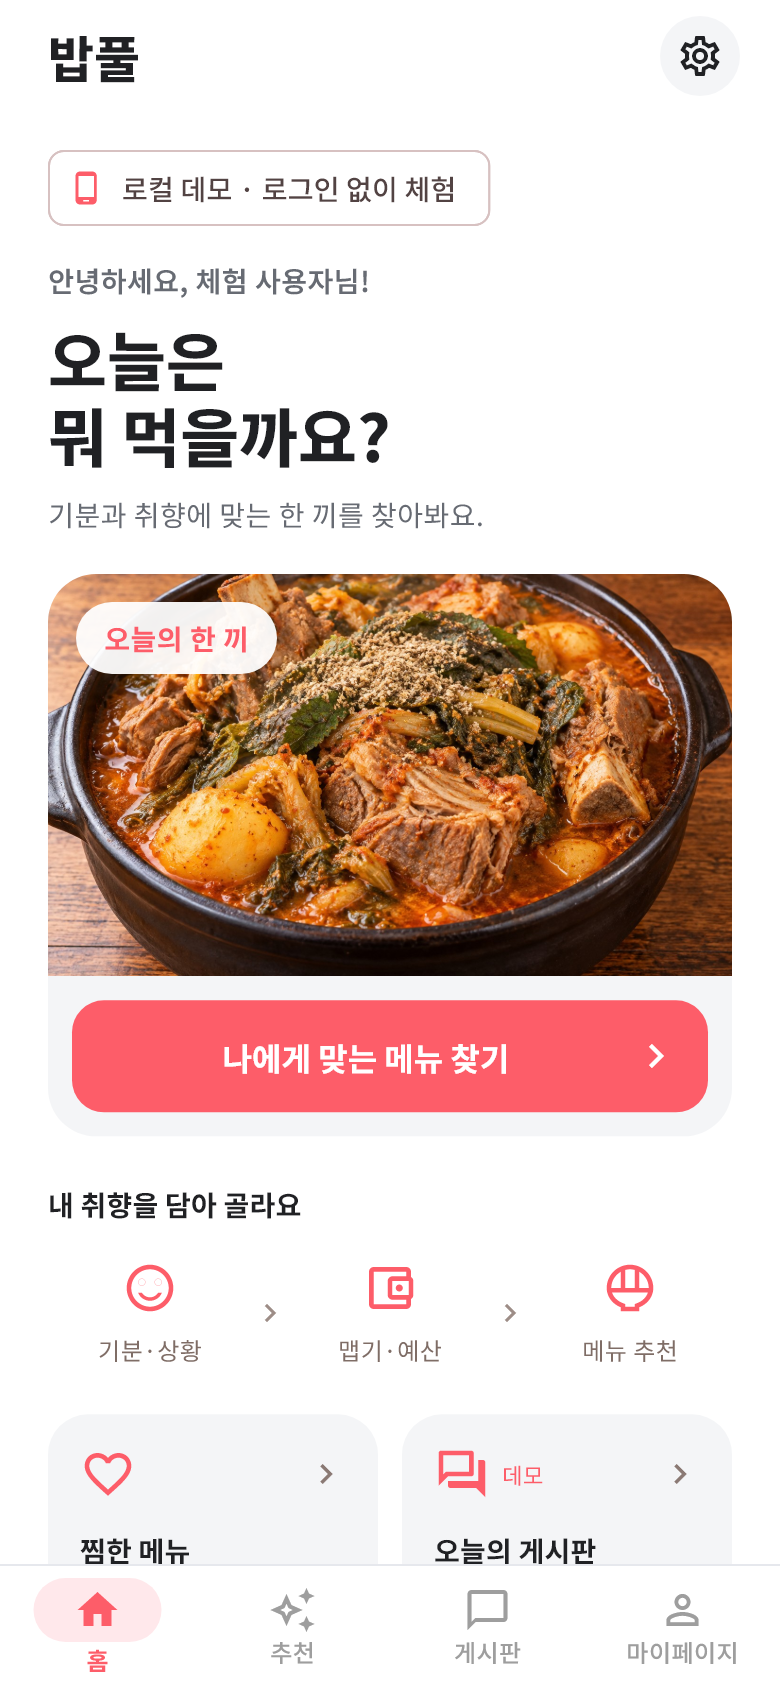
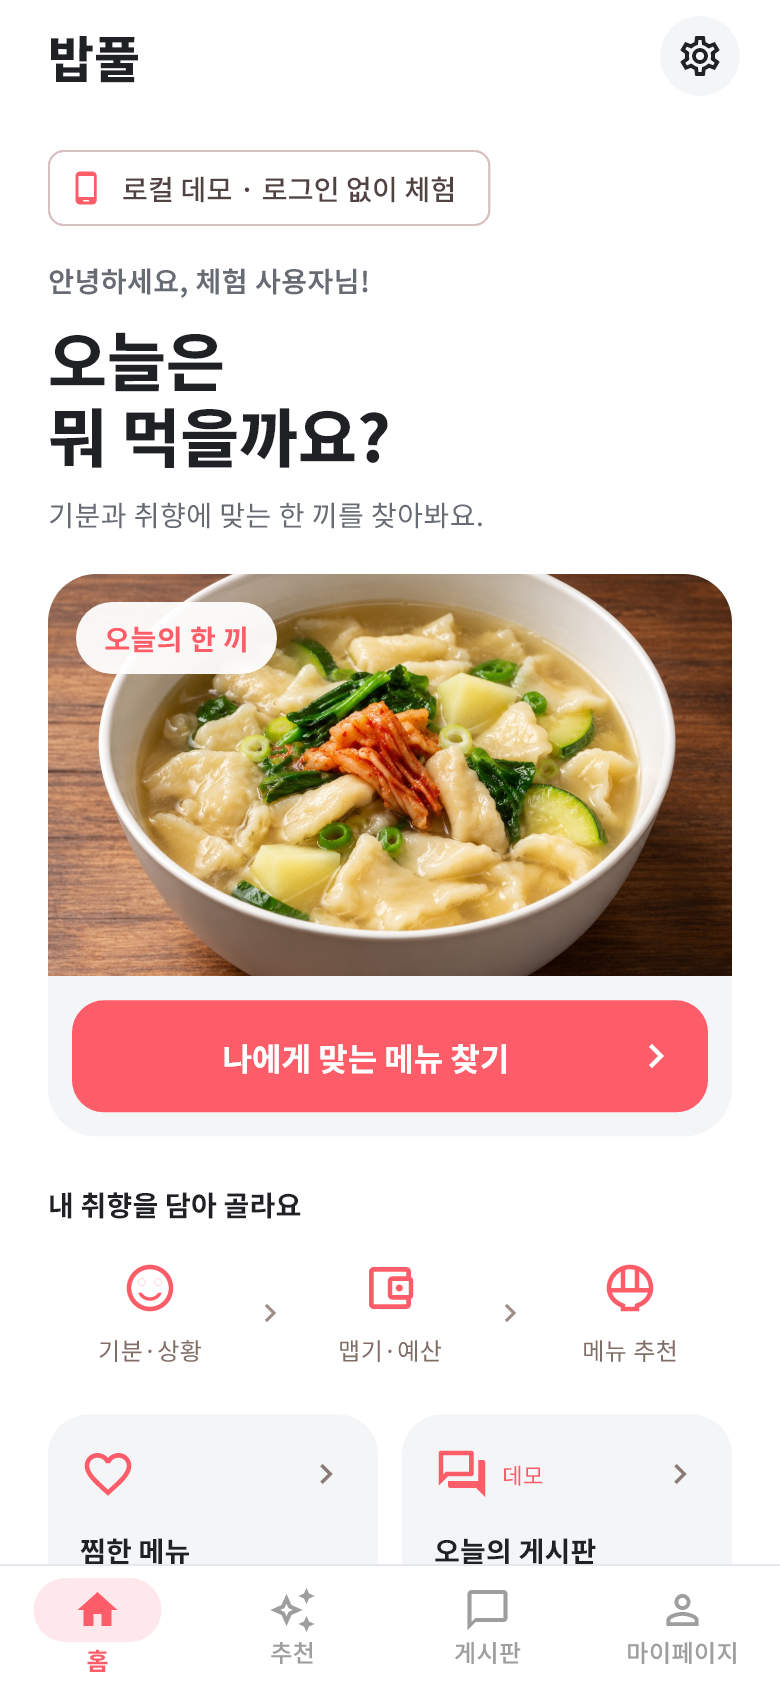
Present screens in spaced Android frames and remove recommendation reason

Changed region(s): [[0.0615, 0.3389, 0.9538, 0.5853]]

diff --git a/test/support/phone_preview.dart b/test/support/phone_preview.dart
@@ -1,0 +1,167 @@
+import 'dart:io';
+import 'dart:ui' as ui;
+import 'package:flutter/material.dart';
+
+// Presentation frame only: the captured app pixels are drawn without changes.
+const _phoneSize = Size(438, 960);
+
+void _text(Canvas canvas, String text, Offset offset, double size) {
+  final painter = TextPainter(
+    text: TextSpan(
+      text: text,
+      style: TextStyle(
+        fontFamily: 'NotoSansKR',
+        fontSize: size,
+        fontWeight: FontWeight.w600,
+        color: const Color(0xFF202124),
+      ),
+    ),
+    textDirection: TextDirection.ltr,
+  )..layout();
+  painter.paint(canvas, offset);
+  painter.dispose();
+}
+
+void _phone(Canvas canvas, ui.Image screenshot) {
+  final paint = Paint()..isAntiAlias = true;
+  final shell = RRect.fromRectAndRadius(
+    const Rect.fromLTWH(16, 12, 406, 936),
+    const Radius.circular(44),
+  );
+  canvas.drawShadow(Path()..addRRect(shell), Colors.black26, 8, true);
+  canvas.drawRRect(shell, paint..color = const Color(0xFF202124));
+  canvas.drawRRect(
+    RRect.fromRectAndRadius(
+      const Rect.fromLTWH(422, 156, 3, 62),
+      const Radius.circular(2),
+    ),
+    paint,
+  );
+  canvas.save();
+  canvas.clipRRect(
+    RRect.fromRectAndRadius(
+      const Rect.fromLTWH(24, 20, 390, 920),
+      const Radius.circular(36),
+    ),
+  );
+  canvas.drawColor(Colors.white, BlendMode.srcOver);
+  _text(canvas, '10:08', const Offset(42, 29), 12);
+  canvas.drawCircle(const Offset(219, 39), 4.5, paint);
+  for (var i = 0; i < 4; i++) {
+    canvas.drawRRect(
+      RRect.fromRectAndRadius(
+        Rect.fromLTWH(350 + i * 4, 43 - i * 2, 2.5, 4 + i * 2),
+        const Radius.circular(0.7),
+      ),
+      paint,
+    );
+  }
+  canvas.drawArc(
+    const Rect.fromLTWH(372, 33, 14, 12),
+    3.8,
+    1.8,
+    false,
+    Paint()
+      ..color = const Color(0xFF202124)
+      ..style = PaintingStyle.stroke
+      ..strokeWidth = 1.5,
+  );
+  canvas.drawCircle(const Offset(379, 43), 1.5, paint);
+  canvas.drawRRect(
+    RRect.fromRectAndRadius(
+      const Rect.fromLTWH(392, 34, 7, 11),
+      const Radius.circular(1.2),
+    ),
+    paint,
+  );
+  canvas.drawRect(const Rect.fromLTWH(394, 32, 3, 2), paint);
+  canvas.drawImageRect(
+    screenshot,
+    Rect.fromLTWH(
+      0,
+      0,
+      screenshot.width.toDouble(),
+      screenshot.height.toDouble(),
+    ),
+    const Rect.fromLTWH(24, 60, 390, 844),
+    Paint()..filterQuality = FilterQuality.high,
+  );
+  canvas.drawRRect(
+    RRect.fromRectAndRadius(
+      const Rect.fromLTWH(188, 924, 62, 4),
+      const Radius.circular(2),
+    ),
+    paint..color = const Color(0xFF93969B),
+  );
+  canvas.restore();
+}
+
+Future<void> _save(ui.Picture picture, Size size, String path) async {
+  final image = await picture.toImage(size.width.ceil(), size.height.ceil());
+  final bytes = await image.toByteData(format: ui.ImageByteFormat.png);
+  await File(path).writeAsBytes(bytes!.buffer.asUint8List());
+  image.dispose();
+  picture.dispose();
+}
+
+Future<void> writePhonePreview(ui.Image screenshot, String path) async {
+  final recorder = ui.PictureRecorder();
+  final canvas = Canvas(recorder)..scale(2);
+  _phone(canvas, screenshot);
+  await _save(recorder.endRecording(), _phoneSize * 2, path);
+}
+
+Future<void> writePhoneOverview(
+  String directory,
+  String name,
+  List<(String, String)> screens,
+) async {
+  const gap = 90.0;
+  const padding = 40.0;
+  const top = 74.0;
+  final size = Size(
+    padding * 2 +
+        screens.length * _phoneSize.width +
+        (screens.length - 1) * gap,
+    top + _phoneSize.height + 28,
+  );
+  final recorder = ui.PictureRecorder();
+  final canvas = Canvas(recorder);
+  canvas.drawColor(const Color(0xFFF6F7F9), BlendMode.src);
+  final images = <ui.Image>[];
+  for (var index = 0; index < screens.length; index++) {
+    final (file, title) = screens[index];
+    final codec = await ui.instantiateImageCodec(
+      await File('$directory/$file.png').readAsBytes(),
+    );
+    final image = (await codec.getNextFrame()).image;
+    codec.dispose();
+    images.add(image);
+    final left = padding + index * (_phoneSize.width + gap);
+    final label = TextPainter(
+      text: TextSpan(
+        text: title,
+        style: const TextStyle(
+          fontFamily: 'NotoSansKR',
+          color: Color(0xFF202124),
+          fontSize: 24,
+          fontWeight: FontWeight.w700,
+        ),
+      ),
+      textDirection: TextDirection.ltr,
+    )..layout();
+    label.paint(
+      canvas,
+      Offset(left + (_phoneSize.width - label.width) / 2, 26),
+    );
+    label.dispose();
+    canvas.save();
+    canvas.translate(left, top);
+    _phone(canvas, image);
+    canvas.restore();
+  }
+  await _save(recorder.endRecording(), size, '$directory/$name.png');
+  for (final image in images) {
+    image.dispose();
+  }
+}

diff --git a/lib/screens/recommend_result_page.dart b/lib/screens/recommend_result_page.dart
@@ -7,7 +7,6 @@ import '../services/local_recommend_service.dart';
 import '../services/user_menu_preference_service.dart';
 import '../core/app_config.dart';
 import '../widgets/menu_summary_card.dart';
-import '../widgets/recommendation_reason_card.dart';
 import '../widgets/recommendation/result_decision_buttons.dart';
 
 class RecommendResultPage extends StatefulWidget {
@@ -18,7 +17,6 @@ class RecommendResultPage extends StatefulWidget {
 
 class _RecommendResultPageState extends State<RecommendResultPage> {
   MenuModel? _menu;
-  RankedMenu? _ranked;
   RecommendationRequest? _request;
   RecommendationExposure? _exposure;
   final Set<String> _shown = {};
@@ -37,7 +35,6 @@ class _RecommendResultPageState extends State<RecommendResultPage> {
     final args = ModalRoute.of(context)?.settings.arguments;
     if (args is! Map<String, dynamic> || args['menu'] is! MenuModel) return;
     _menu = args['menu'] as MenuModel;
-    _ranked = args['ranked'] as RankedMenu?;
     _random = args['isRandomMode'] == true;
     _exposure = _random ? null : args['exposure'] as RecommendationExposure?;
     if (!_random) {
@@ -102,7 +99,6 @@ class _RecommendResultPageState extends State<RecommendResultPage> {
       }
     }
     MenuModel next;
-    RankedMenu? ranked;
     RecommendationExposure? exposure;
     if (_random) {
       next = await LocalRecommendService.recommendRandom(
@@ -122,9 +118,8 @@ class _RecommendResultPageState extends State<RecommendResultPage> {
         candidates,
         _request!,
       );
-      ranked = choice.result;
       exposure = choice.exposure;
-      next = ranked.menu;
+      next = choice.result.menu;
     }
     final favorite = await UserMenuPreferenceService.isFavoriteMenu(
       next.menuId,
@@ -138,7 +133,6 @@ class _RecommendResultPageState extends State<RecommendResultPage> {
     if (!mounted) return;
     setState(() {
       _menu = next;
-      _ranked = ranked;
       _exposure = exposure;
       _favorite = favorite;
       _selected = false;
@@ -198,9 +192,7 @@ class _RecommendResultPageState extends State<RecommendResultPage> {
                 children: [
                   MenuSummaryCard(menu: menu),
                   const SizedBox(height: 4),
-                  if (_ranked != null)
-                    RecommendationReasonCard(result: _ranked!)
-                  else
+                  if (_random)
                     const Text('전체 메뉴에서 무작위로 골랐어요. 예산·맵기·취향 조건은 적용되지 않아요.'),
                   const SizedBox(height: 12),
                   ListTile(

diff --git a/test/visual_refresh_test.dart b/test/visual_refresh_test.dart
@@ -19,6 +19,7 @@ import 'package:bp2/services/visual_preferences.dart';
 import 'package:bp2/services/home_hero_image_service.dart';
 import 'package:bp2/widgets/menu_summary_card.dart';
 import 'package:bp2/widgets/recommendation/bobpool_cooker.dart';
+import 'support/phone_preview.dart';
 
 const captureDirectory = String.fromEnvironment('UI_CAPTURE_DIR');
 final boundaryKey = GlobalKey();
@@ -61,6 +62,7 @@ Future<void> capture(WidgetTester tester, String name) async {
     await File(
       '$captureDirectory/$name.png',
     ).writeAsBytes(bytes!.buffer.asUint8List());
+    await writePhonePreview(image, '$captureDirectory/$name-phone.png');
     image.dispose();
   });
 }
@@ -214,6 +216,26 @@ void main() {
     );
     await tester.pumpAndSettle();
     await capture(tester, 'board-current');
+    if (captureDirectory.isNotEmpty) {
+      await tester.runAsync(() async {
+        await writePhoneOverview(
+          captureDirectory,
+          'phone-home-recommendation',
+          [
+            ('home-current', '홈'),
+            ('recommendation-current', '맞춤 추천'),
+            ('random-current', '랜덤 추천'),
+          ],
+        );
+        if (await File('$captureDirectory/result-current.png').exists()) {
+          await writePhoneOverview(captureDirectory, 'phone-result-community', [
+            ('result-current', '추천 결과'),
+            ('board-current', '게시판'),
+            ('mypage-bobpool-profile', '마이페이지'),
+          ]);
+        }
+      });
+    }
     expect(find.text('오늘 점심은 김치찌개로 결정!'), findsOneWidget);
     expect(tester.takeException(), isNull);
   });

diff --git a/test/widget_test.dart b/test/widget_test.dart
@@ -25,7 +25,7 @@ void main() {
       expect(tester.takeException(), isNull);
     },
   );
-  testWidgets('recommend, explain, favorite, select once, recipe and rerank', (
+  testWidgets('recommend, favorite, select once, recipe and rerank', (
     tester,
   ) async {
     tester.view.physicalSize = const Size(1080, 2400);
@@ -45,7 +45,8 @@ void main() {
     await tester.tap(find.text('이 조건으로 추천받기'));
     await tester.pumpAndSettle();
     expect(find.text('나를 위한 추천'), findsOneWidget);
-    expect(find.text('이 메뉴를 추천한 이유'), findsOneWidget);
+    expect(find.text('이 메뉴를 추천한 이유'), findsNothing);
+    expect(find.byTooltip('추천 이유 더보기'), findsNothing);
     final first = tester
         .widget<MenuSummaryCard>(find.byType(MenuSummaryCard))
         .menu

diff --git a/README.md b/README.md
@@ -94,17 +94,16 @@
 
 기분·상황·맵기·예산을 한 화면에서 고를 수 있습니다. 추천 전 ‘애니메이션 건너뛰기’를 체크하면 음식 결과를 바로 보여주고, 체크하지 않으면 밥풀이가 자기 밥솥 버튼을 누른 뒤 결과로 전환합니다.
 
-흰 배경과 Noto Sans KR로 통일한 현재 Flutter 화면을 로컬에서 렌더링했습니다. 게시판은 예시 데이터입니다.
+현재 Flutter 화면을 로컬에서 렌더링해 같은 안드로이드 휴대폰 프레임에 담았습니다. 게시판은 예시 데이터입니다.
 
 <p>
-  <img src="docs/images/visual-refresh/home-white-nav.png" width="220" alt="새 홈 화면">
-  <img src="docs/images/visual-refresh/recommendation-white-nav.png" width="220" alt="기분·상황·맵기·예산을 한눈에 고르는 추천 화면">
-  <img src="docs/images/visual-refresh/random-white-nav.png" width="220" alt="랜덤 추천과 애니메이션 건너뛰기 설정">
+  <img src="docs/images/visual-refresh/phone-home-recommendation.png" width="100%" alt="홈 · 맞춤 추천 · 랜덤 추천">
 </p>
+
+<br>
+
 <p>
-  <img src="docs/images/visual-refresh/result-current.png" width="220" alt="음식 추천 결과와 결정 버튼">
-  <img src="docs/images/visual-refresh/board-white-nav.png" width="220" alt="밥풀이 프로필을 적용한 게시판">
-  <img src="docs/images/visual-refresh/mypage-white-nav.png" width="220" alt="새 마이페이지">
+  <img src="docs/images/visual-refresh/phone-result-community.png" width="100%" alt="추천 결과 · 게시판 · 마이페이지">
 </p>
 
 <br><br><br>
@@ -226,17 +225,16 @@ Android 7.0 이상에서 사용할 수 있습니다. 서버 연결 APK는 설치
 
 気分・食事シーン・辛さ・予算を一つの画面で選べます。推薦前にアニメーションのスキップを選ぶと料理をすぐに表示し、選ばなければマスコットが自分の炊飯器のボタンを押してから結果に切り替わります。
 
-白い背景とNoto Sans KRで統一した現在のFlutter画面をローカルで描画しました。掲示板はサンプルデータです。アプリのUIは韓国語です。
+現在のFlutter画面をローカルで描画し、同じAndroid端末フレームで並べました。掲示板はサンプルデータです。アプリのUIは韓国語です。
 
 <p>
-  <img src="docs/images/visual-refresh/home-white-nav.png" width="220" alt="ホーム画面">
-  <img src="docs/images/visual-refresh/recommendation-white-nav.png" width="220" alt="気分・食事シーン・辛さ・予算の選択">
-  <img src="docs/images/visual-refresh/random-white-nav.png" width="220" alt="ランダム推薦とアニメーション設定">
+  <img src="docs/images/visual-refresh/phone-home-recommendation.png" width="100%" alt="ホーム・条件付き推薦・ランダム推薦">
 </p>
+
+<br>
+
 <p>
-  <img src="docs/images/visual-refresh/result-current.png" width="220" alt="料理の推薦結果">
-  <img src="docs/images/visual-refresh/board-white-nav.png" width="220" alt="掲示板">
-  <img src="docs/images/visual-refresh/mypage-white-nav.png" width="220" alt="マイページ">
+  <img src="docs/images/visual-refresh/phone-result-community.png" width="100%" alt="推薦結果・掲示板・マイページ">
 </p>
 
 <br><br><br>
